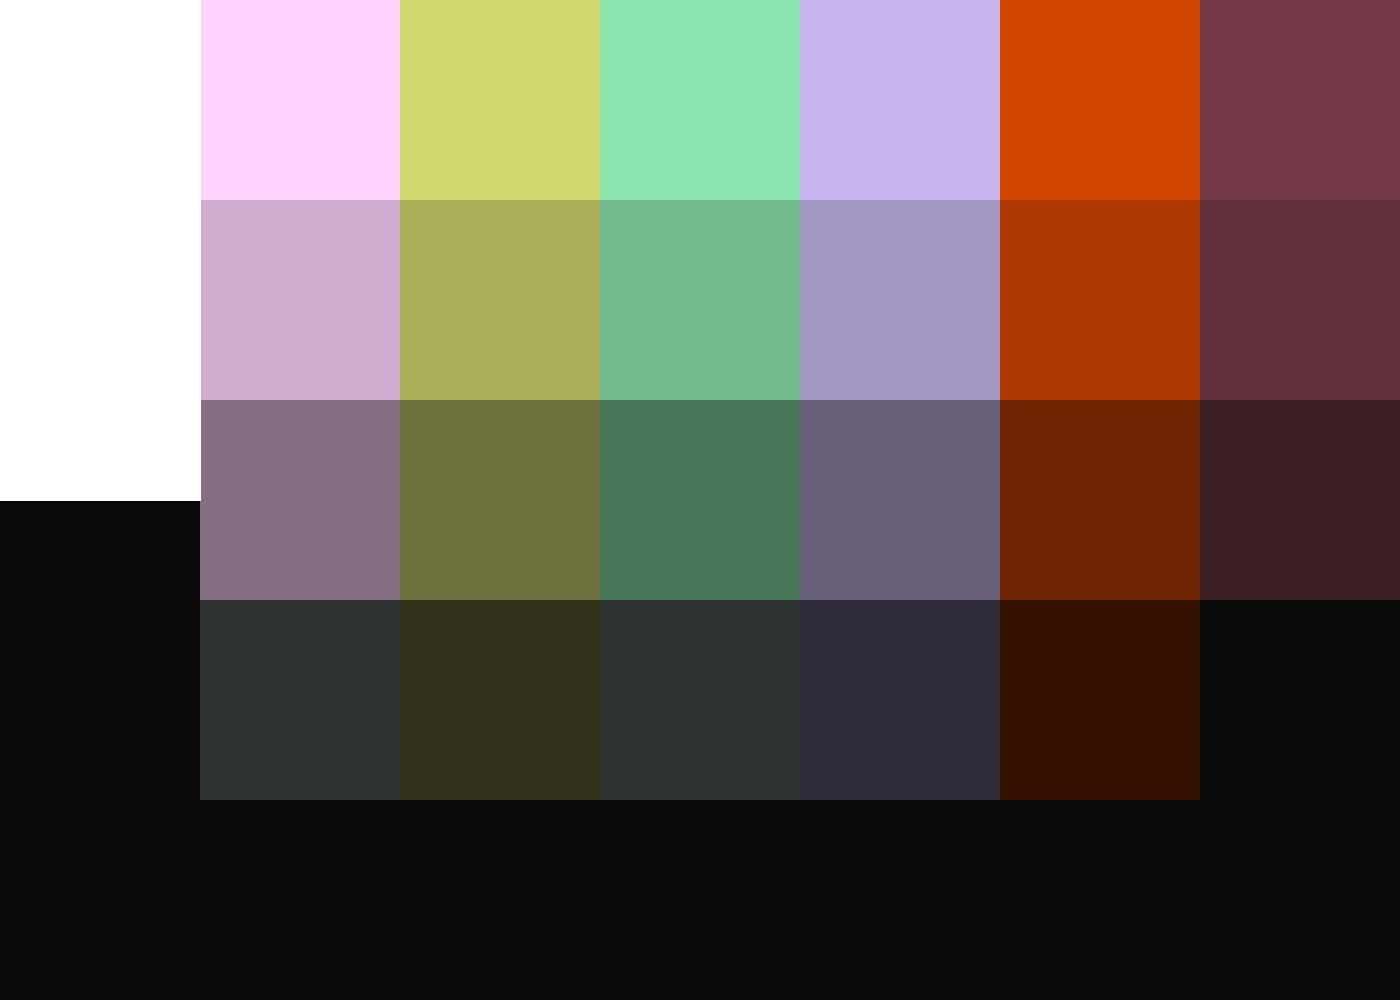
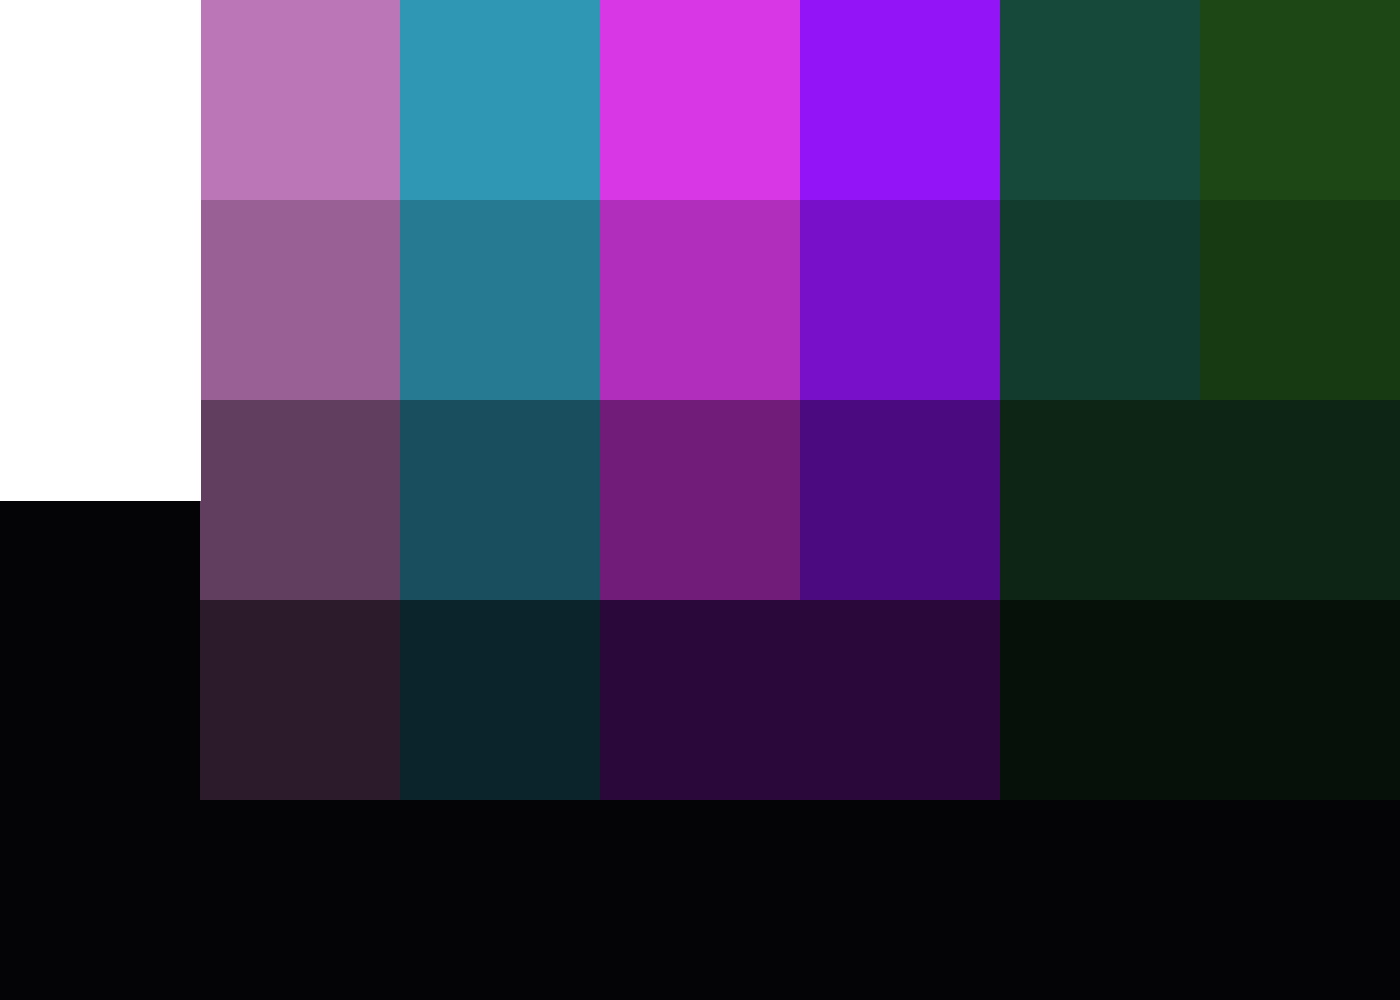
Cleaned up satellites and rings, fixed retry loop in bot to shorten the length each time.

diff --git a/space_vista.py b/space_vista.py
@@ -180,8 +180,7 @@ class Vista:
     def total_pixels(self):
         return self.width * self.height
 
-    def save(self, file_title="starry"):
-        file_name = f"{file_title}.gif"
+    def save(self, file_name="starry.gif"):
         db = self.draw_bodies()
         first = next(db)
         first.save(
@@ -362,9 +361,10 @@ class StarField(CelestialBody):
 class BasePlanet(CelestialBody):
     def __init__(self, vista):
         super().__init__(vista)
-        self.velocity = (1, 1, 2, 2, 3, 3, 4, 4, 5, 5, 6, 8, 9, 12)[
-            self.layer + self.vista.RNG.integers(-1, 2)
-        ]
+        # self.velocity = (1, 1, 2, 2, 3, 3, 4, 4, 5, 5, 6, 8, 9, 12)[
+        #     self.layer + self.vista.RNG.integers(-1, 2)
+        # ]
+        self.velocity = max(1, self.layer // 2 + self.vista.RNG.integers(4))
         self.mass = int(
             self.vista.RNG.triangular(
                 4, self.vista.height / 4, self.vista.height / np.sqrt(2)
@@ -587,24 +587,34 @@ class Satellite(PlanetaryFeature):
         )
         if self.irregular:
             style = self.vista.RNG.choice(
-                (  # Cut-out Style
-                    [
-                        self.vista.RNG.integers(self.mass // -10, self.mass // 10 + 1),
-                        self.vista.RNG.integers(self.mass // -10, self.mass // 10 + 1),
-                        self.mass + 4 + x_shift // 3,
-                        self.mass + 4 + y_shift // 3,
-                    ],
-                    (0, 0, 0, 0),
-                ),
-                (  # Add-on style
-                    [
-                        self.vista.RNG.integers(self.mass // -10, self.mass // 10 + 1),
-                        self.vista.RNG.integers(self.mass // -10, self.mass // 10 + 1),
-                        self.mass + 4 + x_shift // 2,
-                        self.mass + 4 + y_shift // 2,
-                    ],
-                    (*self.fill, 255),
-                ),
+                [
+                    (  # Cut-out Style
+                        [
+                            self.vista.RNG.integers(
+                                self.mass // -10, self.mass // 10 + 1
+                            ),
+                            self.vista.RNG.integers(
+                                self.mass // -10, self.mass // 10 + 1
+                            ),
+                            self.mass + 4 + x_shift // 3,
+                            self.mass + 4 + y_shift // 3,
+                        ],
+                        (0, 0, 0, 0),
+                    ),
+                    (  # Add-on style
+                        [
+                            self.vista.RNG.integers(
+                                self.mass // -10, self.mass // 10 + 1
+                            ),
+                            self.vista.RNG.integers(
+                                self.mass // -10, self.mass // 10 + 1
+                            ),
+                            self.mass + 4 + x_shift // 2,
+                            self.mass + 4 + y_shift // 2,
+                        ],
+                        (*self.fill, 255),
+                    ),
+                ]
             )
             draw_mask.ellipse(*style)
             if self.vist.RNG.integers(2) == 0:
@@ -865,7 +875,7 @@ class Rings(PlanetaryFeature):
         #     (center + np.array((self.inner_diameter, self.inner_height))//2).tolist(),
         #     fill=(0,0,0,0)
         #     )
-        x, y = (center - self.center).tolist()
+        x, y = (center - self.center)
         self.ring = Image.new("RGBA", im.size, (0, 0, 0, 0))
         self.draw_ring = ImageDraw.Draw(self.ring)
         self.draw_ring.ellipse(
@@ -873,6 +883,14 @@ class Rings(PlanetaryFeature):
             fill=(0, 0, 0, 0),
             outline=self.fill + self.alpha,
             width=self.thickness,
+        )
+        # Cut-out for planet
+        clearance = abs(int(self.planet.mass * self.planet.tilt_from_y / 90))
+        co_x = center[0] - self.planet.mass//2
+        co_y = center[1] - clearance//2
+        self.draw_ring.ellipse(
+            [x-1, y-1, x + self.planet.mass+1, y + clearance+1],
+            fill=(0, 0, 0, 0),
         )
 
     def background(self, center, im, draw_im):
@@ -1447,6 +1465,42 @@ def random_spacescape(length=1200):
         computer_readout["task"] = RNG.choice(EVA_GERUNDS) + RNG.choice(EVAS)
     return computer_readout
 
+def spacescape(coords=None, length=1200):
+    if coords is None:
+        coords = Coordinates()
+    p = pd.Series([tuple(coords.integers(0, 256, 3)) for dummy in range(6)])
+    painting = Vista(
+        coords=coords,
+        palette=coords.choice([Palette, PastellerPalette], p=(0.5, 0.5))(p),
+        length=length,
+    )
+    stars = StarField(painting, coords.integers(450, 551))
+    total_planets = abs(int(coords.normal(5, 1)))
+    for n in range(total_planets):
+        print(f"Surveying planet {n+1} of {total_planets}…")
+        FeaturePlanet(painting)
+    RNG.choice(
+        [
+            partial(Interior, file_path="observation_windows.png"),
+            AstroGarden,
+            Engineering,
+            StellarCafe,
+            ExtraVehicularActivity,
+        ]
+    )(painting)
+    s_noun = RNG.choice(DETECTOR)
+    s_verb = RNG.choice(DETECTION)
+    if s_noun[-1] != "s":
+        s_verb += "s"
+    computer_readout = {
+        "coords": f"{RNG.choice(COORD_GERUNDS)} coordinates {coords}…",
+        "star density": f"Star density = {painting.bodies[0].n_stars/(painting.bodies[0].fieldsize)}",
+        "planetoids": f"{s_noun} {s_verb} {total_planets} planetoids.",
+    }
+    if isinstance(painting.bodies[-1], ExtraVehicularActivity):
+        computer_readout["task"] = RNG.choice(EVA_GERUNDS) + RNG.choice(EVAS)
+    return painting, computer_readout
+
 
 ## Exploratory Functions
 
@@ -1568,22 +1622,6 @@ class TestPlanet(BasePlanet):
         for moon in range(3):
             features.append(Satellite(self))
         return features
-
-
-class Yule(Interior):
-    def __init__(self, vista, file_path="fireplace.png"):
-        super().__init__(vista, file_path)
-        self.last_flame = None
-        # X Between 160 & 230
-        # Y Between 190 & 260
-        self.flame_boxes = [[x, 190, x + 17, 260] for x in range(160, 233, 18)]
-
-    def draw(self, image, drawing_frame, frame_n):
-        if (self.last_flame is None) or (frame_n % 4 == 0):
-            self.last_flame = self.im
-            for sb in self.flame_boxes:
-                self.last_flame = flame_like(self.last_flame, sb)
-        image.alpha_composite(self.last_flame)
 
 
 def run_test():

diff --git a/bot.py b/bot.py
@@ -167,13 +167,20 @@ class GifTweet(object):
 
 
 if __name__ == "__main__":
-    test = 15728640
-    attempts = 3
-    while (test >= 15728640) and (attempts > 0): # This while loop should be in sv.random_spacescape
-        status_dict = sv.random_spacescape() # That way we can hit the same coords.
-        spacescape = GifTweet(GIF_FILENAME)
+   def bot_painting():
+    attempt = 0
+    limit = file_size = 15728640
+    length = 1200
+    coords = sv.Coordinates()
+    while file_size >= limit and attempt < 3:
+        print(f'Attempt {attempt+1}…')
+        painting, status_dict = sv.spacescape(coords=coords, length=length)
+        print("Painting spacescape!")
+        painting.save(GIF_FILENAME)
         test = os.stat(GIF_FILENAME).st_size
-        attempts -= 1
+        attempts += 1
+        length -= 100
+    spacescape = GifTweet(GIF_FILENAME)
     spacescape.upload_init()
     spacescape.upload_append()
     spacescape.upload_finalize()
